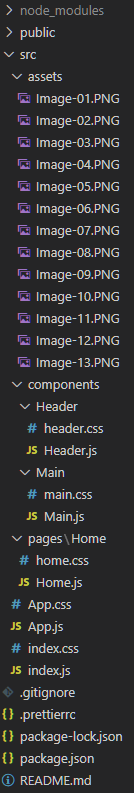
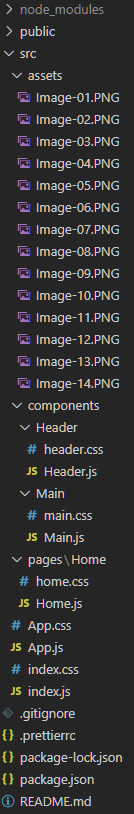
Added links and some styling.

Changed region(s): [[0.0, 0.0, 0.9254, 0.9987], [0.6866, 0.0, 0.7761, 0.0303]]

diff --git a/src/components/Main/Main.js b/src/components/Main/Main.js
@@ -10,6 +10,7 @@ import appJsImg from "../../assets/Image-10.PNG";
 import homeJsImg from "../../assets/Image-11.PNG";
 import headerJsImg from "../../assets/Image-12.PNG";
 import mainJsImg from "../../assets/Image-13.PNG";
+import filesStructureImg04 from "../../assets/Image-14.PNG";
 import "./main.css";
 
 function Main() {
@@ -23,14 +24,15 @@ function Main() {
         These are just personal thoughts that worked for me so far, so nothing
         too "best-practicey" and "best-approachey".<br></br>
         <br></br>
-        To simplify things I use Create React App and my code editor is VSCode.
+        To simplify things I use{" "}
+        <a href="https://create-react-app.dev/">Create React App</a> and my code
+        editor is <a href="https://code.visualstudio.com/">VSCode</a>.<br></br>
         <br></br>
-        <br></br>
-        Note: I also use Prettier to make the code look more or less "in-shape",
-        but that's not really necessary, so I won't go through the details about
-        it. In my code it just adds identical tab widths of 2, semicolons and
-        double quotes. Otherwise, if seen on the further screenshots, the
-        file .prettierrc can be ignored.<br></br>
+        Note: I also use <a href="https://prettier.io/">Prettier</a> to make the
+        code look more or less "in-shape", but that's not really necessary, so I
+        won't go through the details about it. In my code it just adds identical
+        tab widths of 2, semicolons and double quotes. Otherwise, if seen on the
+        further screenshots, the file .prettierrc can be ignored.<br></br>
         <br></br>
         When you start a new app it will be created within a new folder
         automatically, so, if you already created one and choose it as initial,
@@ -82,9 +84,10 @@ function Main() {
           </p>
           <img src={readmeImg} alt="Basic project Readme file." />
           <p>
-            You can follow the example of the Markdown format that was in the
-            Readme initially or simply google something like "basic markdown
-            example".
+            You can follow the example of the{" "}
+            <a href="https://en.wikipedia.org/wiki/Markdown">Markdown</a> format
+            that was in the Readme initially or simply google something like
+            "basic markdown example".
           </p>
         </li>
         <li>
@@ -168,6 +171,20 @@ function Main() {
       <img src={headerJsImg} alt="Header.js file of the project." />
       <p>Main.js file:</p>
       <img src={mainJsImg} alt="Main.js file of the project." />
+      <p>
+        Now, I did some tweaking and basically recreated this article into a
+        React-page. Here's one final screenshot of the files structure:
+      </p>
+      <img src={filesStructureImg04} alt="Final files structure." />
+      <p>
+        I won't go into details about HTML and CSS used. I just added it the
+        simplest way it seemed possible as it wasn't the objective for this one
+        (no judgement, ok?). I simply wanted to create and show this same text
+        but created with the basic Create React App.<br></br>
+        <br></br>
+        That's pretty much it about how it looks and works. If you found this
+        so-called guide useful, I sincerely thank thee kind person.
+      </p>
     </main>
   );
 }

diff --git a/src/components/Main/main.css b/src/components/Main/main.css
@@ -1,0 +1,7 @@
+main {
+  font-size: 1.25rem;
+}
+
+img {
+  max-width: 50vw;
+}

diff --git a/src/components/Header/header.css b/src/components/Header/header.css
@@ -1,0 +1,3 @@
+header {
+  text-align: center;
+}

diff --git a/src/index.css b/src/index.css
@@ -1,0 +1,3 @@
+body {
+  margin: 2vh 2vw;
+}
